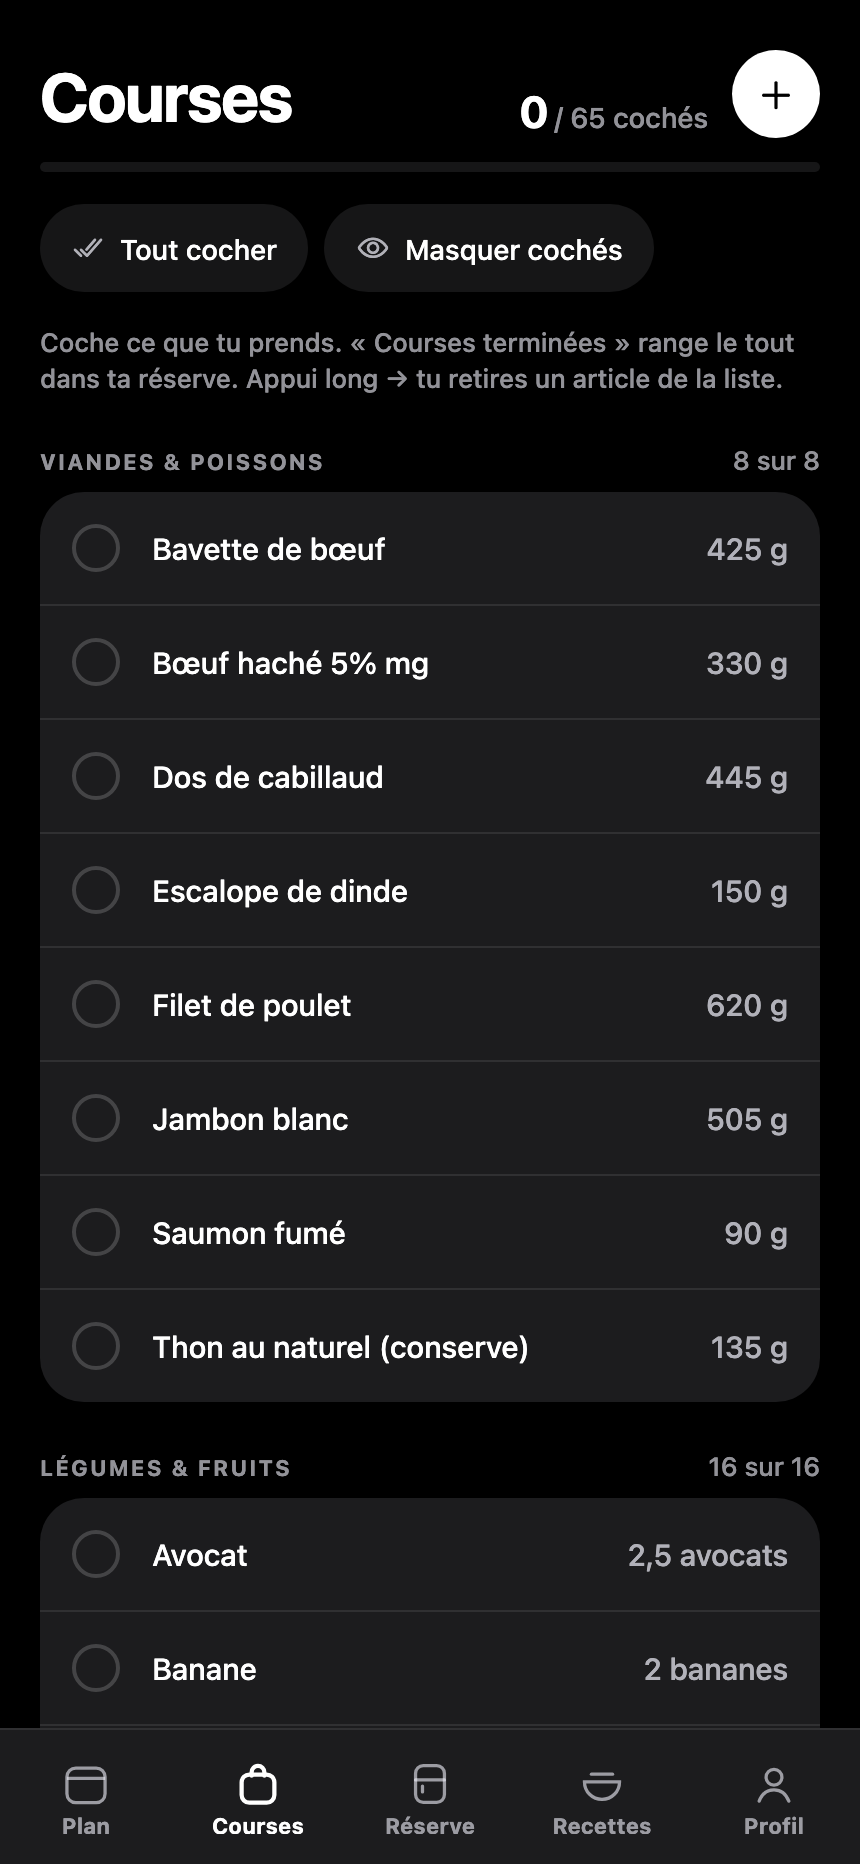
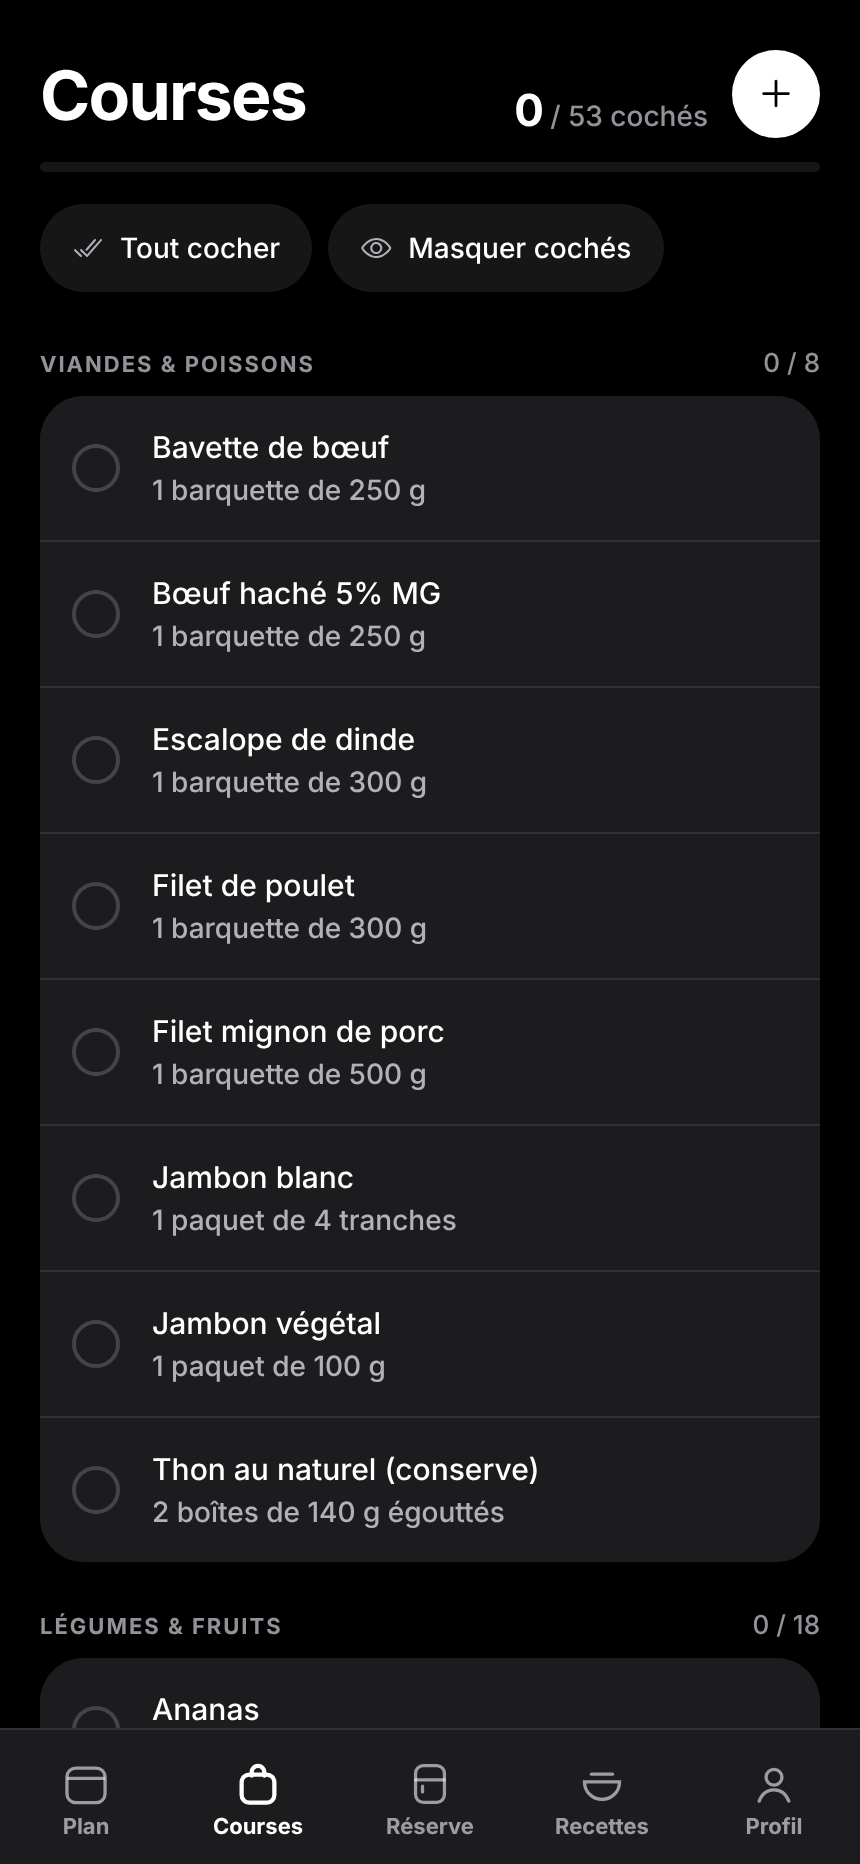
fix(ui) : l'intro montre l'app d'aujourd'hui, la fiche dit « J'ai cuisiné » (tour du 2026-10-23)
Tour de l'app demandé par le fondateur (« si tu trouves aussi des choses, go ») :
- les 8 images de l'intro (assets/intro/) montraient une app qui n'existe plus : le bandeau
  « ✓ Mangé, journée recalée », une liste de courses en grammes avec l'ancienne aide et
  l'ancien compteur. Regénérées par test/intro-captures.mjs, session factice ;
- la fiche d'un repas disait « J'ai mangé, retirer de ma réserve », la carte « J'ai
  cuisiné » : un seul mot pour un seul geste (la déduction de la réserve ne change pas) ;
- « Quand veux-tu commencer ? » coupait « jour-là » au trait d'union : trait insécable.
Trouvé et laissé, consigné dans AGENTS.md (point 8) : les deux-points en début de ligne
(437 espaces dans 66 fichiers, PR à part après #376 et #390), les unités liste/Réserve.

Suite 2 852, tsc 0.

Claude-Session: https://claude.ai/code/session_01FjGf8MGBgUoCcdHmmn1A6m

diff --git a/kyroz-app/components/FirstPlanReveal.tsx b/kyroz-app/components/FirstPlanReveal.tsx
@@ -116,7 +116,9 @@ export function FirstPlanReveal({ visible, profile, firstName, previewMeals, opt
           {etape === 'debut' ? (
           <ScrollView contentContainerStyle={s.scroll} showsVerticalScrollIndicator={false}>
             <Text style={s.title}>Quand veux-tu commencer ?</Text>
-            <Text style={s.sub}>Ton plan et ta liste de courses partiront de ce jour-là.</Text>
+            {/* Trait d'union INSÉCABLE (U+2011) : « jour-là » se coupait en fin de ligne, « là. »
+                seul en tête de la suivante (vu au navigateur, 2026-10-23). */}
+            <Text style={s.sub}>Ton plan et ta liste de courses partiront de ce jour‑là.</Text>
             <View style={[s.section, { gap: Spacing.sm }]}>
               {principaux.map((o) => (
                 <OptionCard

diff --git a/kyroz-app/components/RecipeDetail.tsx b/kyroz-app/components/RecipeDetail.tsx
@@ -224,7 +224,10 @@ export function RecipeDetail({ recipe, portions = 1, adaptedIngredients, adapted
                 <Text style={s.swapTxt}>Je l'ai sauté</Text>
               </Presse>
             )}
-            {onCook && <PrimaryButton t={t} label="J'ai mangé, retirer de ma réserve" onPress={onCook} />}
+            {/* « J'ai cuisiné », le mot de la carte du Plan (2026-10-23) : la fiche disait « J'ai
+                mangé, retirer de ma réserve » — deux mots pour un geste, et la machine racontée
+                (point 4). La déduction de la réserve, elle, n'a pas changé. */}
+            {onCook && <PrimaryButton t={t} label="J'ai cuisiné" onPress={onCook} />}
           </View>
         )}
       </ScrollView>

diff --git a/kyroz-app/lib/__tests__/silence.test.ts b/kyroz-app/lib/__tests__/silence.test.ts
@@ -41,6 +41,7 @@ const RETIREES: [string[], string][] = [
   [['app', '(tabs)', 'plan.tsx'], 'Elles suivent maintenant ton régime'],
   [['components', 'MealCard.tsx'], 'compté dans ton total'],
   [['components', 'RecipeDetail.tsx'], 'journée recalée'],
+  [['components', 'RecipeDetail.tsx'], 'retirer de ma réserve'],
   [['components', 'RecipeDetail.tsx'], 'un peu au-dessus de ta cible'],
   [['components', 'RecipeDetail.tsx'], 'un peu en dessous de ta cible'],
   [['components', 'RecipeDetail.tsx'], 'un peu pauvre en protéines'],

diff --git a/kyroz-app/AGENTS.md b/kyroz-app/AGENTS.md
@@ -358,6 +358,31 @@ qu'ils étaient périmés.
    toucher coche toujours, avec son tic `choix` ; l'aide « Appui long pour retirer un
    article » part avec l'appui long. Vu au navigateur : retirer, glissement long, cocher,
    rétablir. Même validation au simulateur que la Réserve.
+8. **Tour de l'app du 2026-10-23** (« fais un tour de l'app, si tu trouves aussi des choses,
+   go ») — au navigateur, clair et sombre, inscription neuve comprise, et les parcours
+   « Courses terminées » → Réserve → Réalisable. **Corrigé dans #376** :
+   - **l'intro montrait une app qui n'existe plus** (`assets/intro/`, 8 images) : le bandeau
+     « ✓ Mangé, journée recalée », et une liste de courses EN GRAMMES avec l'ancienne aide et
+     l'ancien compteur (« 8 sur 8 ») — plus ancienne que le point 4. Regénérée par
+     `test/intro-captures.mjs` (session factice, aucun compte) ; poids total inchangé (1,1 Mo).
+     ⚠ La diapo 2 (poids) montre la carte du Profil : à REGÉNÉRER quand #390 fusionne ;
+   - la fiche d'un repas disait « J'ai mangé, retirer de ma réserve » quand la carte dit
+     « J'ai cuisiné » : un geste, deux mots, et la machine racontée → « J'ai cuisiné » ;
+   - « Quand veux-tu commencer ? » coupait « jour-là » au trait d'union → trait insécable.
+   **Trouvé, PAS corrigé — à trancher ou à planifier** :
+   - 🔴 **les deux-points tombent en début de ligne** (« ne changent pas / : ils restent
+     gratuits » sur la page Kyroz+) : **437 espaces ordinaires** devant `: ; ? ! »` (ou après
+     `«`) dans **66 fichiers**. Le remède est mécanique (espace insécable), mais il touche la
+     plupart des fichiers de #390 → PR À PART, après les deux fusions, avec un garde-fou ;
+   - **unités : la liste dit « 1 ananas », la Réserve dit « 500 g »** (tomate : « 2 tomates » /
+     « 120 g »). La Réserve n'affiche en pièces que les aliments à `poidsUnitaire` (banane,
+     avocat, œuf…), pas ceux qu'on achète à la pièce (`FORMATS`). L'étendre change aussi les
+     fiches recette (« Tomate 80 g » → « ⅔ tomate ») — décision du fondateur ;
+   - « Quand veux-tu commencer ? » : l'option « Lundi 26 » a pour sous-titre « lundi 26
+     octobre » (redite) ;
+   - au navigateur seulement, le titre compact passe PAR-DESSUS le contenu qui défile sous lui
+     (« J'ai cuisiné Plan ») : c'est le fondu d'iOS (E80), validé au simulateur ; sur le site
+     web il se lit comme un chevauchement.
 ➡ Avancement : tenu ici, ligne par ligne, au fil des validations. **Au 2026-10-21** : point 1
    codé + essai posé (ligne 1) ; **point 2 codé et vu au navigateur le 2026-10-22** (semaine
    suivante + pesée, niveau 2 des restes après l'OTA) ; **point 3 mesuré, fermé et validé le
